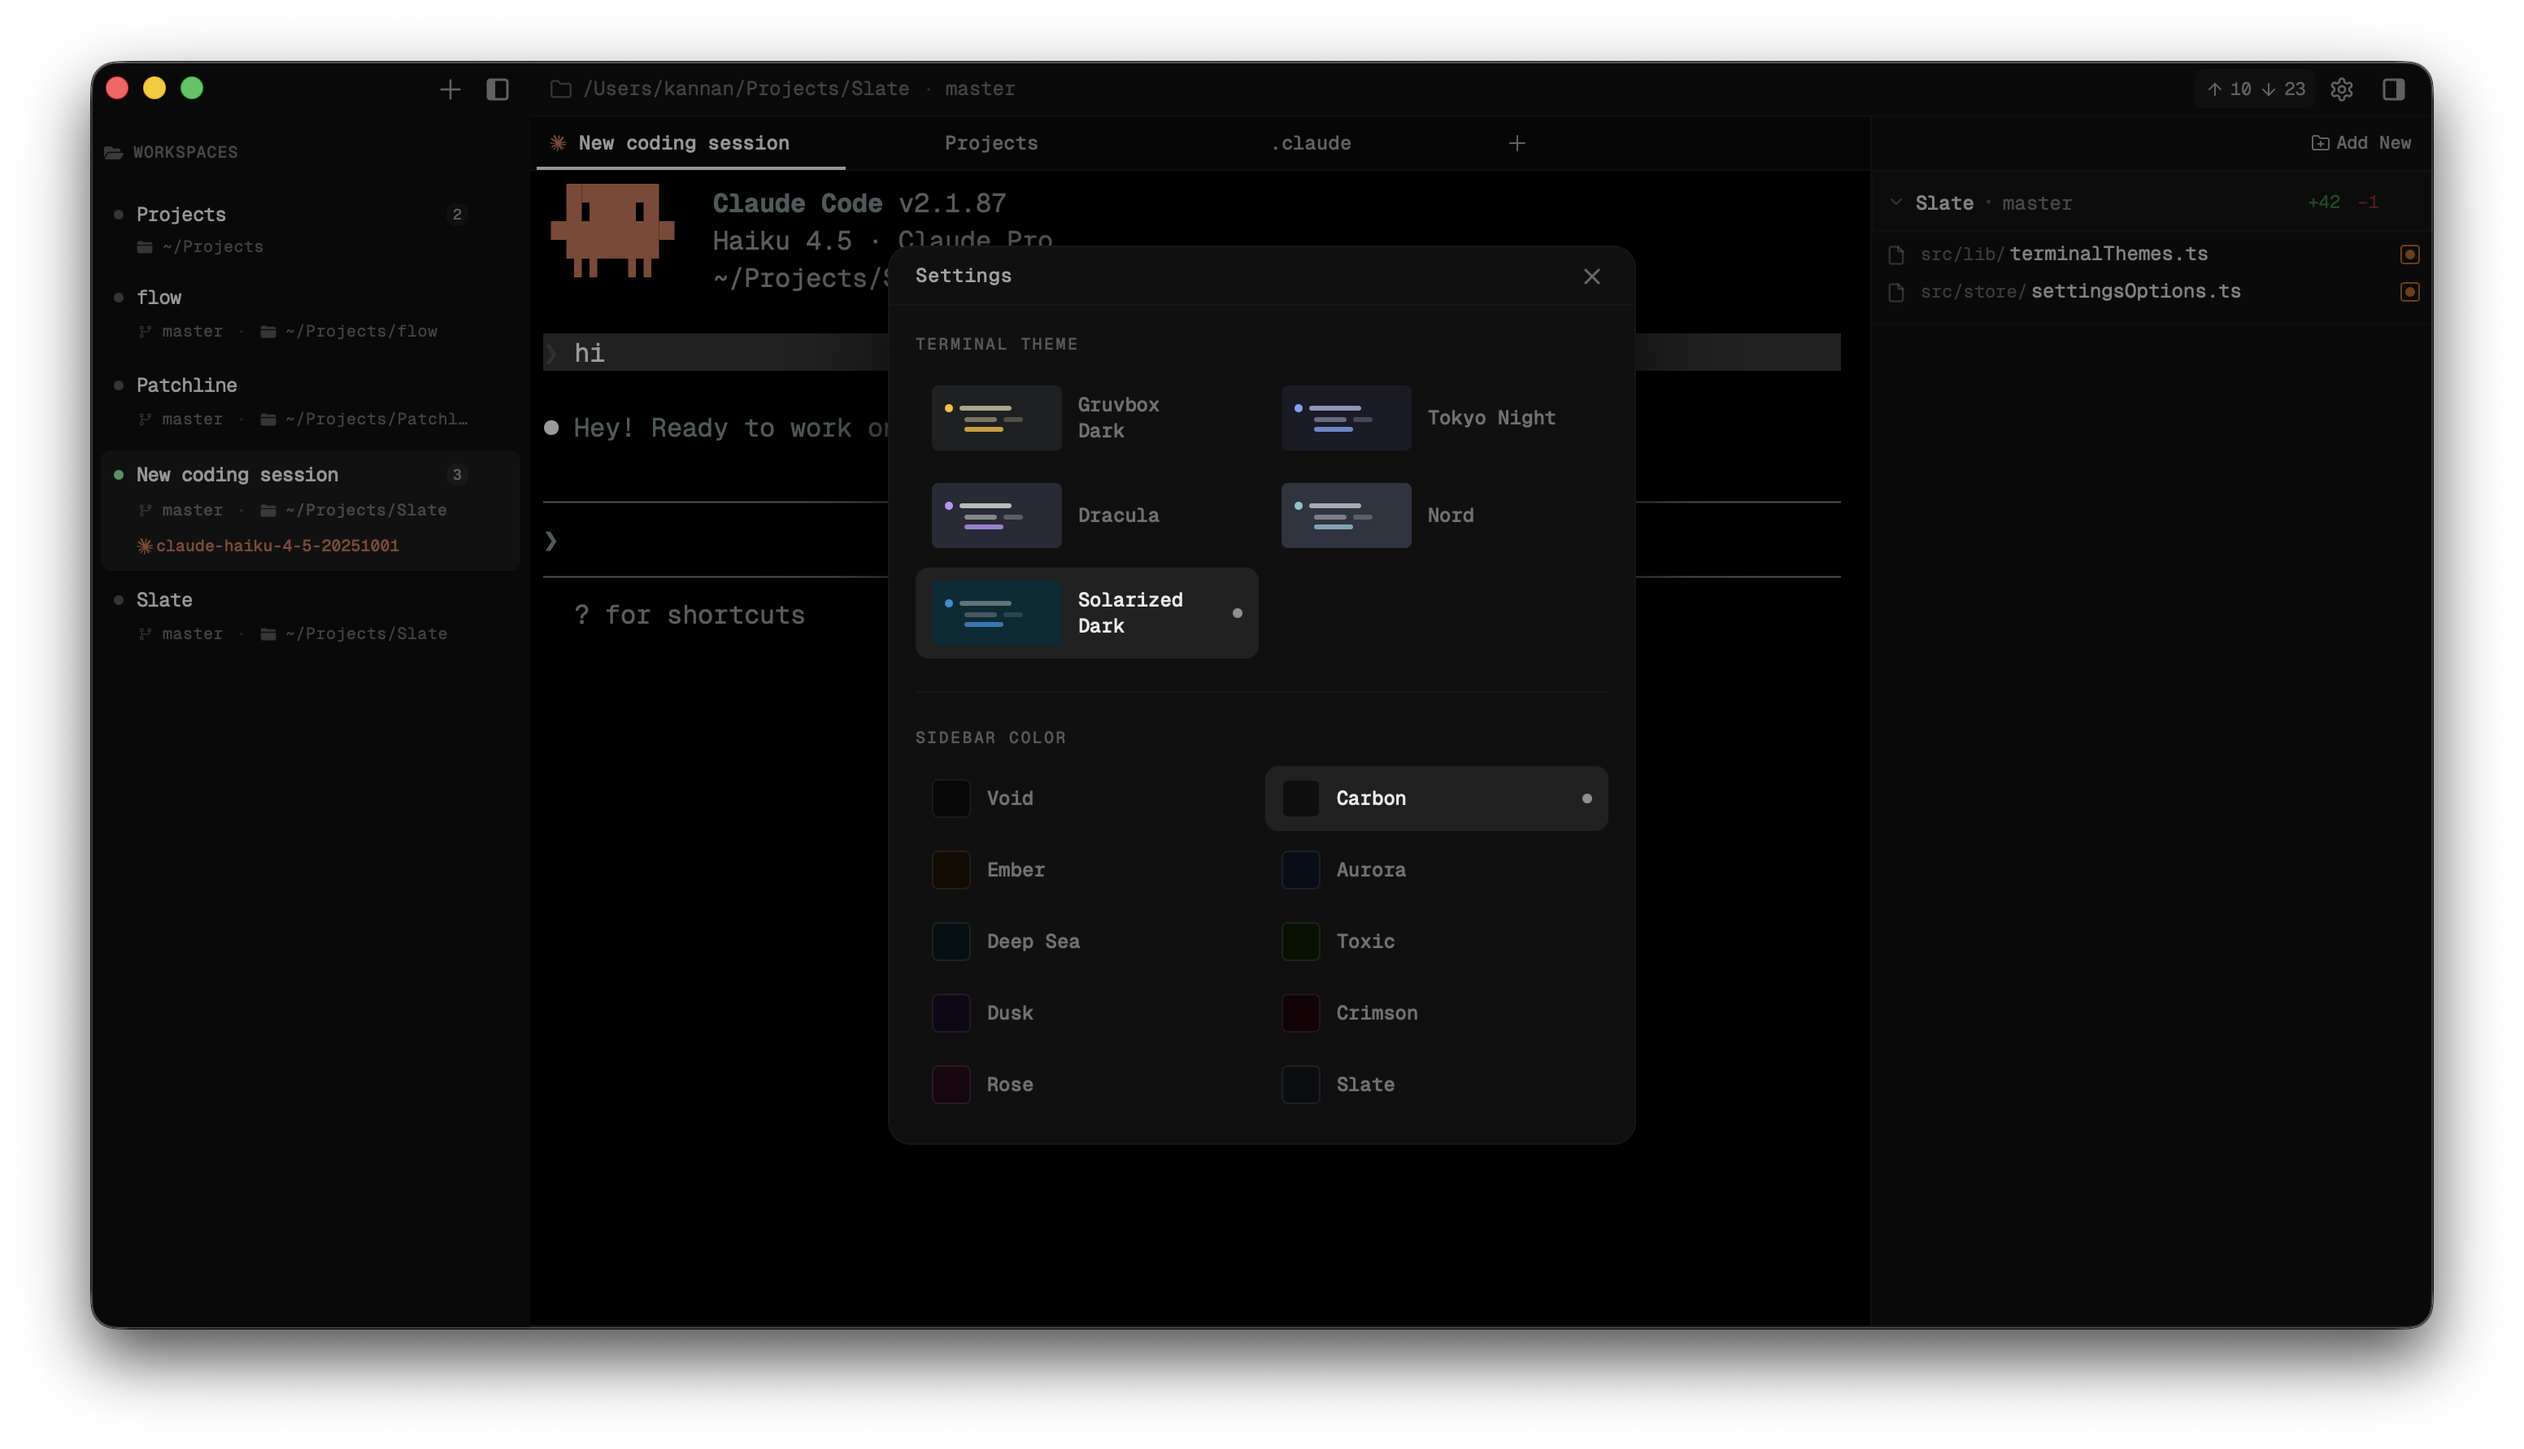
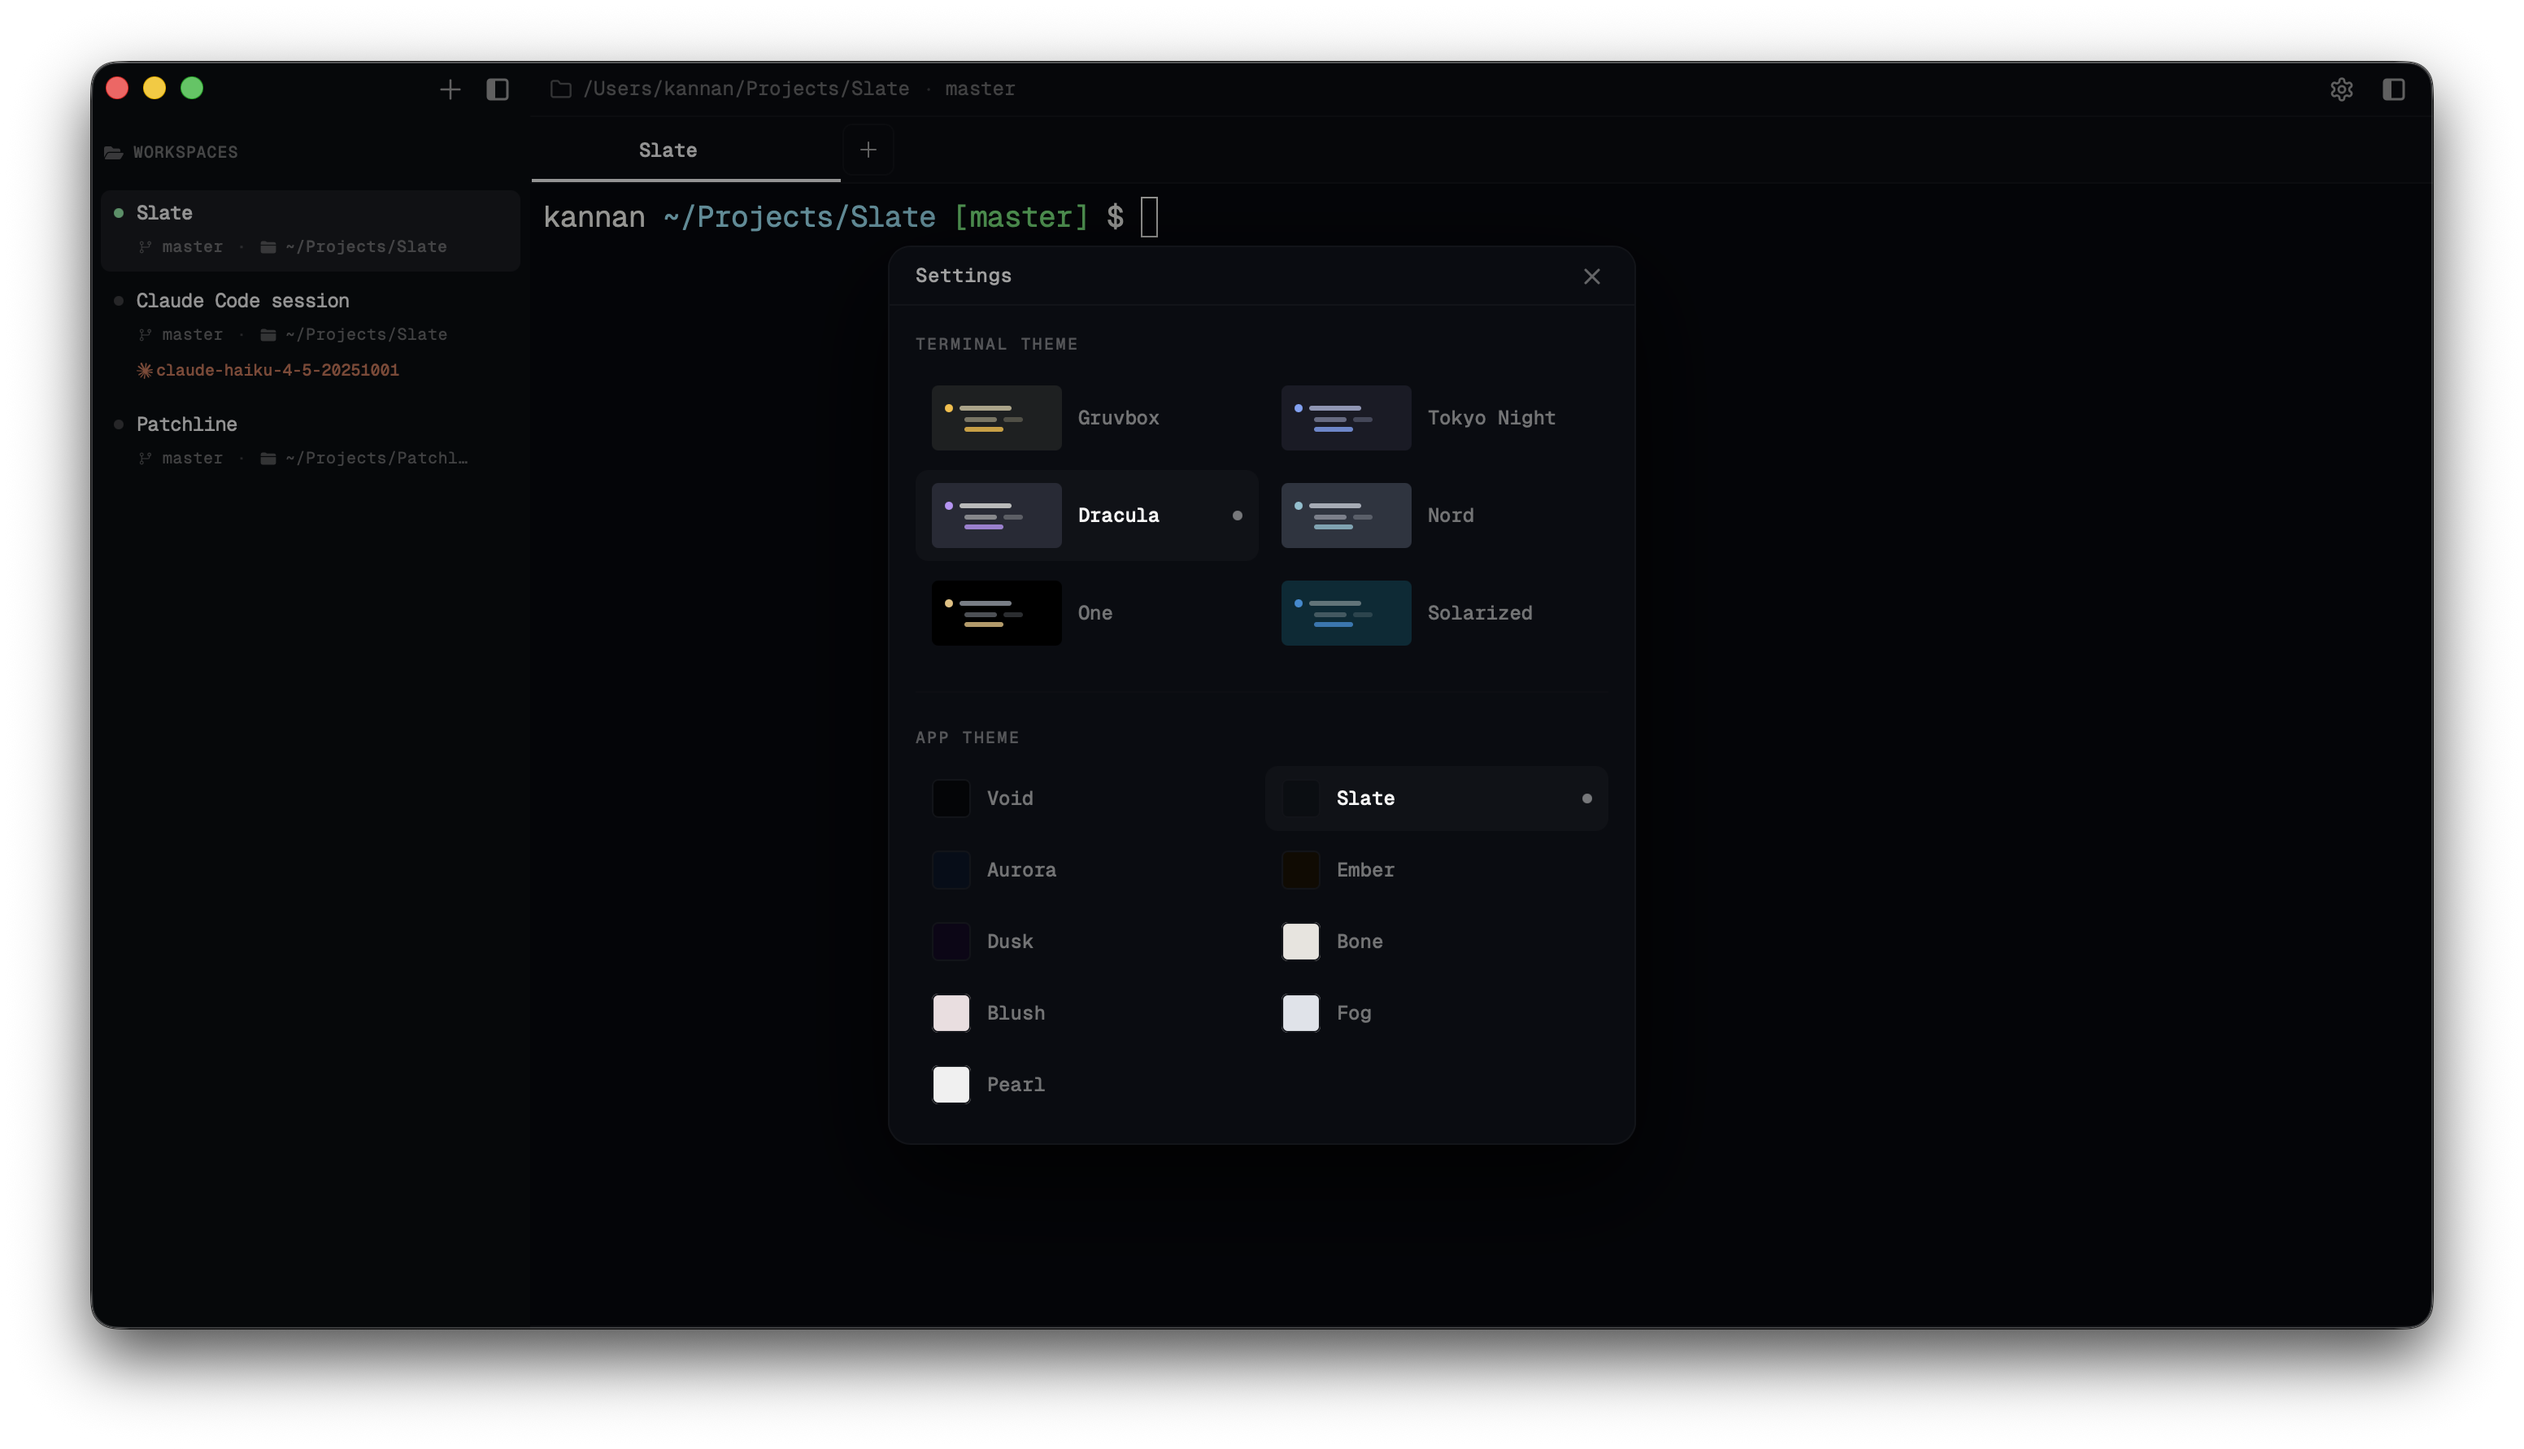
update readme and screenshots

diff --git a/README.md b/README.md
@@ -44,13 +44,18 @@ A macOS terminal that feels fast and familiar by default — then **transforms**
 
 <br />
 
-<img src="screenshots/sills-commands-hooks.png" alt="Blackslate — skills, commands, hooks" width="100%" />
-<p align="center"><em>Browse your Claude <strong>skills</strong>, <strong>slash commands</strong>, and <strong>hooks</strong> in a structured in-app view.</em></p>
+<img src="screenshots/skills-commands-hooks.png" alt="Blackslate — skills, commands, hooks" width="100%" />
+<p align="center"><em>Browse Claude <strong>skills</strong>, <strong>slash commands</strong>, and <strong>hooks</strong> in a dedicated sheet — global and per-project, with a readable file viewer.</em></p>
 
 <br />
 
-<img src="screenshots/themeconfig.png" alt="Blackslate — theme configuration" width="100%" />
-<p align="center"><em>Six terminal themes, ten sidebar palettes — switch live via <code>⌘,</code></em></p>
+<img src="screenshots/themeconfig.png" alt="Blackslate — appearance settings" width="100%" />
+<p align="center"><em><strong>Appearance</strong> (<code>⌘,</code>) — six <strong>terminal</strong> colour themes with a live mini-preview, nine <strong>app chrome</strong> palettes (dark and light), and font size. Everything updates instantly.</em></p>
+
+<br />
+
+<img src="screenshots/lighttheme.png" alt="Blackslate — light app theme" width="100%" />
+<p align="center"><em><strong>Light chrome</strong> — pair the same terminal themes with palettes like <strong>Bone</strong>, <strong>Blush</strong>, <strong>Fog</strong>, or <strong>Pearl</strong> for a full light UI without leaving the agent workflow.</em></p>
 
 </div>
 
@@ -131,9 +136,10 @@ The philosophy: **augment at the UI/UX layer, not at the protocol layer.** PTY, 
 
 **Personalisation**
 
-- **6 terminal themes** — Gruvbox Dark, Tokyo Night, Dracula, Nord, One Dark, Solarized Dark
-- **10 sidebar palettes** — Void, Carbon, Ember, Aurora, Deep Sea, Toxic, Dusk, Crimson, Rose, Slate
-- Settings via `⌘,` — more coming via `blackslate.config`
+- **6 terminal themes** — Gruvbox, Tokyo Night, Dracula, Nord, One, Solarized (each tuned for xterm.js)
+- **9 app chrome themes** — dark: Void, Slate, Aurora, Ember, Dusk · light: Bone, Blush, Fog, Pearl (base colours drive the whole UI via derived CSS variables, not just the sidebar)
+- **Font size** in the same dialog — zoom still available with `⌘=` / `⌘-`
+- Settings via `⌘,` — deeper prefs will land in `blackslate.config`
 
 </td>
 </tr>
@@ -176,13 +182,13 @@ Longer-term: **a full-stack developer workspace that lives inside the terminal**
 
 ## Roadmap
 
-Order reflects current priorities. **Test coverage is #1.**
+Order reflects current priorities. **Foundation work** (tests, config, persistence) comes first so features can ship safely.
 
 #### Foundation
 
 | # | Feature |
 |:-:|:--------|
-| **1** | **Test coverage** — Rust backend + React/TS frontend. Safe refactors, regression protection. |
+| **1** | **Automated tests** — Vitest for critical Zustand stores on the frontend; grow toward broader React/TS and Rust coverage so refactors stay safe. |
 | **2** | **`blackslate.config`** — single user-owned config file for shortcuts, defaults, feature flags, paths. |
 | **3** | **Restore workspace on reopen** — persist layout (workspaces, tabs, order, active selection) across quit/relaunch. |
 
@@ -262,7 +268,8 @@ blackslate/
 │   │   ├── layout/                 # AppLayout — titlebar, sidebar, main pane
 │   │   ├── sidebar/                # AppSidebar — session list + metadata
 │   │   ├── terminal/               # TerminalPane, TerminalView
-│   │   └── settings/               # SettingsDialog
+│   │   ├── header/                 # Titlebar, Claude menu, Claude settings sheet
+│   │   └── settings/               # SettingsDialog — terminal + app theme, font
 │   ├── hooks/
 │   │   └── usePty.ts               # PTY ↔ xterm.js bridge + OSC 7 parser
 │   ├── appconfig.constants.ts      # Terminal + app theme option lists
